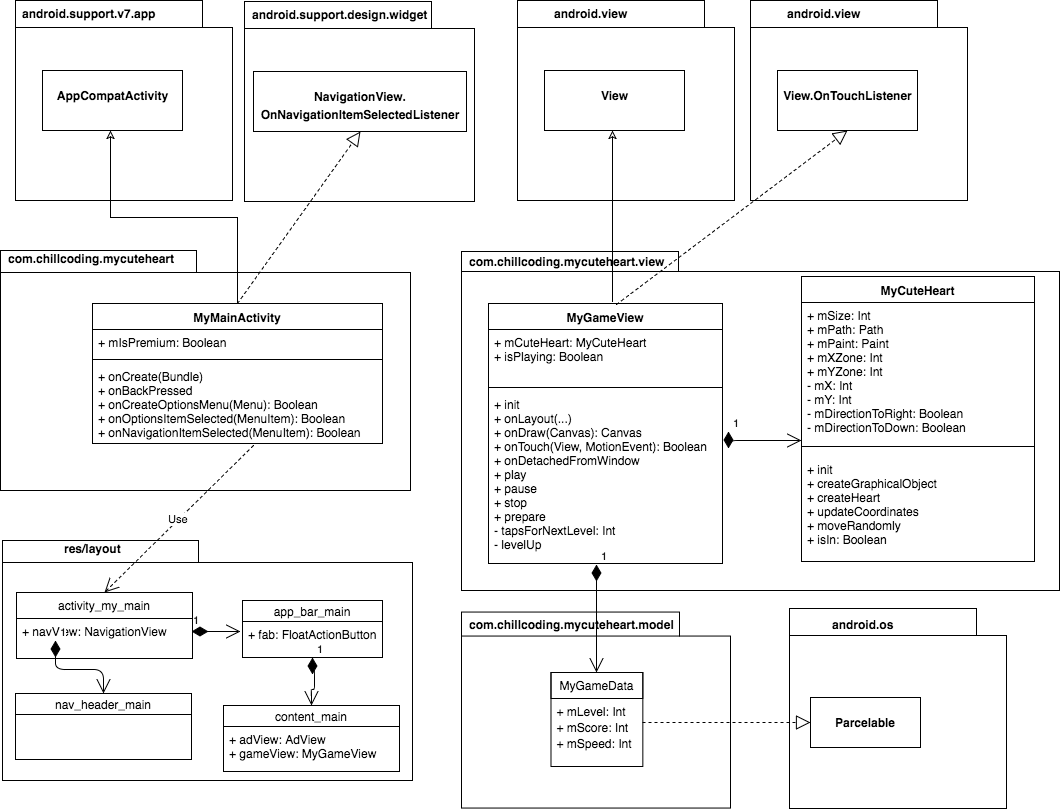
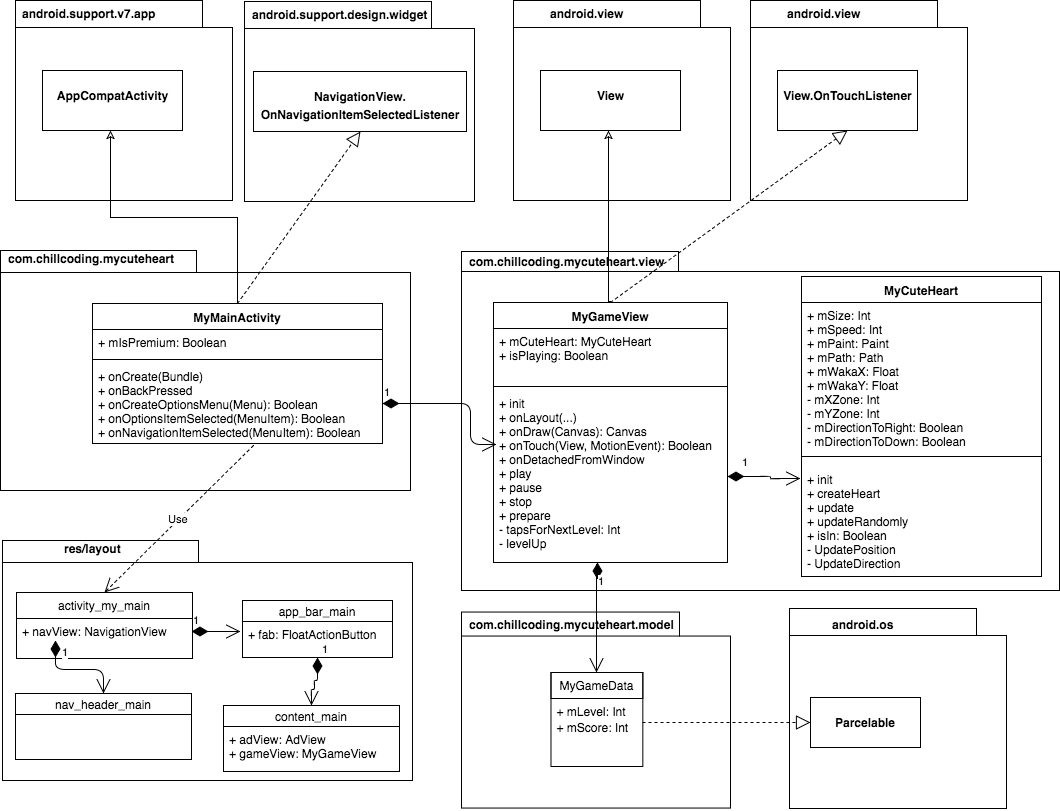
Refactore screen zone and drawing

diff --git a/MyCuteHeart/app/src/main/java/com/chillcoding/mycuteheart/view/MyCuteHeart.kt b/MyCuteHeart/app/src/main/java/com/chillcoding/mycuteheart/view/MyCuteHeart.kt
@@ -9,11 +9,14 @@ import java.util.*
  */
 class MyCuteHeart {
 
-    var mSize = 0
+    var mSize = 300
+    var mSpeed = 1
     var mPaint = Paint()
     var mHeartPath = Path()
-    var mXZone = 0
-    var mYZone = 0
+
+    var mWakaX = 0f
+    var mWakaY = 0f
+
 
     private var mX: FloatArray = floatArrayOf(75f, 60f, 40f, 5f, 40f, 110f, 145f, 110f, 90f)
     private var mY: FloatArray = floatArrayOf(30f, 25f, 5f, 40f, 80f, 102f, 130f)
@@ -21,108 +24,91 @@ class MyCuteHeart {
     private var mDirectionToRight = true
     private var mDirectionToDown = true
 
-    constructor(width: Int, height: Int) {
-        mXZone = width
-        mYZone = height
-        if (height < width)
-            mSize = height / 7
+    private var mXZone = 0
+    private var mYZone = intArrayOf(0, 0)
+
+    constructor(width: Int, height: Int, marginTop: Int, size: Int = 3) {
+        if (height > width)
+            mSize = (height * size) / 1000
         else
-            mSize = width / 7
+            mSize = (width * size) / 1000
+        initializeHeartCoordinates()
+        mXZone = width - mX[6].toInt()
+        mYZone = intArrayOf(height - marginTop - mY[6].toInt(), marginTop)
         init()
     }
 
     private fun init() {
         mPaint = Paint()
         mPaint.style = Paint.Style.FILL
-
-        calculateHeartCoordinates()
-        moveRandomly()
-        createGraphicalObject()
+        updatePositionRandomly()
+        createHeart()
     }
 
-    private fun calculateHeartCoordinates() {
-        for (i in mX.indices) {
-            mX[i] = (mSize * mX[i]) / 150
-        }
-        for (i in mY.indices)
-            mY[i] = (mY[i] * mSize) / 150
-    }
-
-    private fun createGraphicalObject() {
-        mHeartPath.set(createHeart())
-    }
-
-    private fun createHeart(): Path? {
-        val path = Path()
-        path.moveTo(mX[0], mY[0])
-        path.cubicTo(mX[0], mY[1], mX[1], mY[2], mX[2], mY[2])
-        path.cubicTo(mX[3], mY[2], mX[3], mY[3], mX[3], mY[3])
-        path.cubicTo(mX[3], mY[4], mX[4], mY[5], mX[0], mY[6]);
-        path.cubicTo(mX[5], mY[5], mX[6], mY[4], mX[6], mY[3])
-        path.cubicTo(mX[6], mY[3], mX[6], mY[2], mX[7], mY[2])
-        path.cubicTo(mX[8], mY[2], mX[0], mY[1], mX[0], mY[0])
-        return path
-    }
-
-    fun updateCoordinates(speed: Int) {
-        if (mX[6] > mXZone)
-            mDirectionToRight = false
-        if (mY[6] > mYZone)
-            mDirectionToDown = false
-        if (mX[3] < 0)
-            mDirectionToRight = true
-        if (mY[2] < 0)
-            mDirectionToDown = true
-
-        if (mDirectionToRight)
-            for (i in mX.indices)
-                mX[i] = mX[i] + speed
-        else
-            for (i in mX.indices)
-                mX[i] = mX[i] - speed
-
-        if (mDirectionToDown)
-            for (i in mY.indices)
-                mY[i] = mY[i] + speed
-        else
-            for (i in mY.indices)
-                mY[i] = mY[i] - speed
-
-        createGraphicalObject()
-    }
-
-    fun moveRandomly() {
-        var random = Random()
-        var wakaX = random.nextInt(mXZone)
-        var wakaY = random.nextInt(mYZone)
-
-        if (random.nextBoolean())
-            changeDirection()
-
-        if (wakaX > (mXZone - mX[6])) {
-            wakaX -= mX[6].toInt()
-            mDirectionToRight = false
-        }
-        if (wakaY > (mYZone - mY[6])) {
-            wakaY -= mY[6].toInt()
-            mDirectionToDown = false
-        }
-
+    private fun initializeHeartCoordinates() {
         for (i in mX.indices)
-            mX[i] = mX[i] + wakaX
+            mX[i] = mX[i] * mSize
         for (i in mY.indices)
-            mY[i] = mY[i] + wakaY
-
-        createGraphicalObject()
+            mY[i] = mY[i] * mSize
     }
 
-    fun changeDirection() {
+    private fun createHeart() {
+        mHeartPath = Path()
+        mHeartPath.moveTo(mX[0], mY[0])
+        mHeartPath.cubicTo(mX[0], mY[1], mX[1], mY[2], mX[2], mY[2])
+        mHeartPath.cubicTo(mX[3], mY[2], mX[3], mY[3], mX[3], mY[3])
+        mHeartPath.cubicTo(mX[3], mY[4], mX[4], mY[5], mX[0], mY[6])
+        mHeartPath.cubicTo(mX[5], mY[5], mX[6], mY[4], mX[6], mY[3])
+        mHeartPath.cubicTo(mX[6], mY[3], mX[6], mY[2], mX[7], mY[2])
+        mHeartPath.cubicTo(mX[8], mY[2], mX[0], mY[1], mX[0], mY[0])
+
+    }
+
+    private fun updatePosition() {
+        if (mDirectionToRight)
+            mWakaX += mSpeed
+        else
+            mWakaX -= mSpeed
+        if (mDirectionToDown)
+            mWakaY += mSpeed
+        else
+            mWakaY -= mSpeed
+    }
+
+   private fun updatePositionRandomly() {
+        val random = Random()
+        mWakaX = random.nextInt(mXZone).toFloat()
+        mWakaY = (random.nextInt(mYZone.first()) + mYZone[1]).toFloat()
+    }
+
+    private fun updateDirection() {
+        if (mWakaX > mXZone)
+            mDirectionToRight = false
+        if (mWakaY > mYZone.first())
+            mDirectionToDown = false
+        if (mWakaX < 0)
+            mDirectionToRight = true
+        if (mWakaY < mYZone[1])
+            mDirectionToDown = true
+    }
+
+    private fun changeDirection() {
         mDirectionToDown = !mDirectionToDown
         mDirectionToRight = !mDirectionToRight
     }
 
+    fun update() {
+        updatePosition()
+        updateDirection()
+    }
+
+    fun updateRandomly() {
+        updatePositionRandomly()
+        changeDirection()
+    }
+
     fun isIn(xOf: Int, yOf: Int): Boolean {
-        return (xOf < mX[6] && xOf > mX[3] && yOf < mY[6] && yOf > mY[2])
+        return (xOf in mWakaX..mWakaX + mX[6] && yOf in mWakaY..mWakaY + mY[6])
     }
 
 }

diff --git a/MyCuteHeart/app/src/main/java/com/chillcoding/mycuteheart/view/MyGameView.kt b/MyCuteHeart/app/src/main/java/com/chillcoding/mycuteheart/view/MyGameView.kt
@@ -13,6 +13,7 @@ import android.os.Vibrator
 import android.support.v4.content.res.ResourcesCompat
 import android.widget.Toast
 import com.chillcoding.mycuteheart.model.MyGameData
+import java.util.*
 
 
 /**
@@ -26,11 +27,21 @@ class MyGameView : View, View.OnTouchListener {
     private var mSoundHeartPlayer = MediaPlayer.create(context, R.raw.heart)
     private var mVibrator = context.getSystemService(Activity.VIBRATOR_SERVICE) as Vibrator
 
+    val mColors = listOf(
+            ResourcesCompat.getColor(resources, R.color.colorPrimaryLight, null),
+            ResourcesCompat.getColor(resources, R.color.colorAccentLight, null),
+            ResourcesCompat.getColor(resources, R.color.colorAccent, null),
+            ResourcesCompat.getColor(resources, R.color.colorPrimary, null),
+            ResourcesCompat.getColor(resources, R.color.colorPrimaryDark, null),
+            ResourcesCompat.getColor(resources, R.color.colorAccentDark, null))
+
     var mIsPlaying = false
 
     private var mTextPaint = Paint()
 
     var mData = MyGameData()
+
+    private val mTopMargin = 100f
 
     companion object {
         private val M_POINTS = 3
@@ -47,33 +58,36 @@ class MyGameView : View, View.OnTouchListener {
     private fun init() {
         super.setOnTouchListener(this)
         mSoundPlayer.isLooping = true
-        mTextPaint.textSize = 50F
+        mTextPaint.textSize = 70F
     }
 
     override fun onLayout(changed: Boolean, left: Int, top: Int, right: Int, bottom: Int) {
         super.onLayout(changed, left, top, right, bottom)
-        mHeart = MyCuteHeart(width, height)
-        mHeart.mPaint.color = ResourcesCompat.getColor(resources, R.color.colorRed, null);
+        createMyCuteHeart()
+        mHeart.mPaint.color = mColors.last();
     }
 
     override fun onDraw(canvas: Canvas?) {
         super.onDraw(canvas)
-        //draw the main heart
-        canvas?.drawPath(mHeart.mHeartPath, mHeart.mPaint)
         //draw the score and level
         with(mData) {
-            canvas?.drawText(" ${context.getString(R.string.score)} ${mScore}",
-                    (8 * width / 10).toFloat(), 50f, mTextPaint)
-            canvas?.drawText(" ${context.getString(R.string.level)} ${mLevel}",
-                    (8 * width / 10).toFloat(), 100f, mTextPaint)
+            canvas?.drawText(" ${context.getString(R.string.score)} $mScore",
+                    (1 * width / 10).toFloat(), mTopMargin, mTextPaint)
+            canvas?.drawText(" ${context.getString(R.string.level)} $mLevel",
+                    (7 * width / 10).toFloat(), mTopMargin, mTextPaint)
         }
 
         if (mIsPlaying) {
             invalidate()
-            mHeart.updateCoordinates(mData.mSpeed)
+            mHeart.update()
             if (!mSoundPlayer.isPlaying)
                 mSoundPlayer.start()
         }
+        //draw the main heart
+        canvas?.save()
+        canvas?.translate(mHeart.mWakaX, mHeart.mWakaY)
+        canvas?.drawPath(mHeart.mHeartPath, mHeart.mPaint)
+        canvas?.restore()
     }
 
     override fun onTouch(v: View?, event: MotionEvent?): Boolean {
@@ -89,10 +103,11 @@ class MyGameView : View, View.OnTouchListener {
 
                 if (mIsPlaying) {
                     mData.mScore += M_POINTS
-                    mHeart.moveRandomly()
-
                     if (mData.mScore == tapsForNextLevel() * M_POINTS)
                         levelUp()
+
+                    mHeart.updateRandomly()
+                    changeHeartColorRandomly()
                 }
             }
         }
@@ -111,8 +126,8 @@ class MyGameView : View, View.OnTouchListener {
 
     private fun levelUp() {
         mData.mLevel += 1
-        if (mData.mLevel < 5)
-            mData.mSpeed = 2 * mData.mSpeed
+        createMyCuteHeart()
+        updateSpeed()
         Toast.makeText(context, "+ 1 ${context.getString(R.string.levelup)}", Toast.LENGTH_SHORT).show()
     }
 
@@ -138,5 +153,30 @@ class MyGameView : View, View.OnTouchListener {
     fun prepare() {
         mSoundPlayer = MediaPlayer.create(context, R.raw.latina)
         mSoundPlayer.isLooping = true
+    }
+
+    private fun changeHeartColorRandomly() {
+        val random = Random()
+        when (mData.mLevel) {
+            0 -> mHeart.mPaint.color = mColors[random.nextInt(mColors.size)]
+            1 -> mHeart.mPaint.color = mColors[random.nextInt(mColors.size - 2)]
+            in 5..10 -> mHeart.mPaint.color = mColors.first()
+            else -> mHeart.mPaint.color = mColors[random.nextInt(mColors.size - 4)]
+        }
+    }
+
+    fun updateSpeed() {
+        if (mData.mLevel < 5)
+            mHeart.mSpeed = Math.pow(2.0, (mData.mLevel - 1).toDouble()).toInt()
+        else
+            mHeart.mSpeed = 8
+    }
+
+    fun createMyCuteHeart() {
+        when (mData.mLevel) {
+            0 -> mHeart = MyCuteHeart(width, height, mTopMargin.toInt(), 3)
+            1 -> mHeart = MyCuteHeart(width, height, mTopMargin.toInt(), 2)
+            else -> mHeart = MyCuteHeart(width, height, mTopMargin.toInt(), 1)
+        }
     }
 }

diff --git a/MyCuteHeart/app/src/main/java/com/chillcoding/mycuteheart/model/MyGameData.kt b/MyCuteHeart/app/src/main/java/com/chillcoding/mycuteheart/model/MyGameData.kt
@@ -10,17 +10,12 @@ class MyGameData : Parcelable {
 
     var mScore = 0
     var mLevel = 0
-    var mSpeed = 1
 
     constructor()
 
     constructor(parcel: Parcel) {
         mScore = parcel.readInt()
         mLevel = parcel.readInt()
-        if (mLevel < 5)
-            mSpeed = Math.pow(2.0, (mLevel - 1).toDouble()).toInt()
-        else
-            mSpeed = 8
     }
 
     override fun writeToParcel(dest: Parcel?, flags: Int) {
